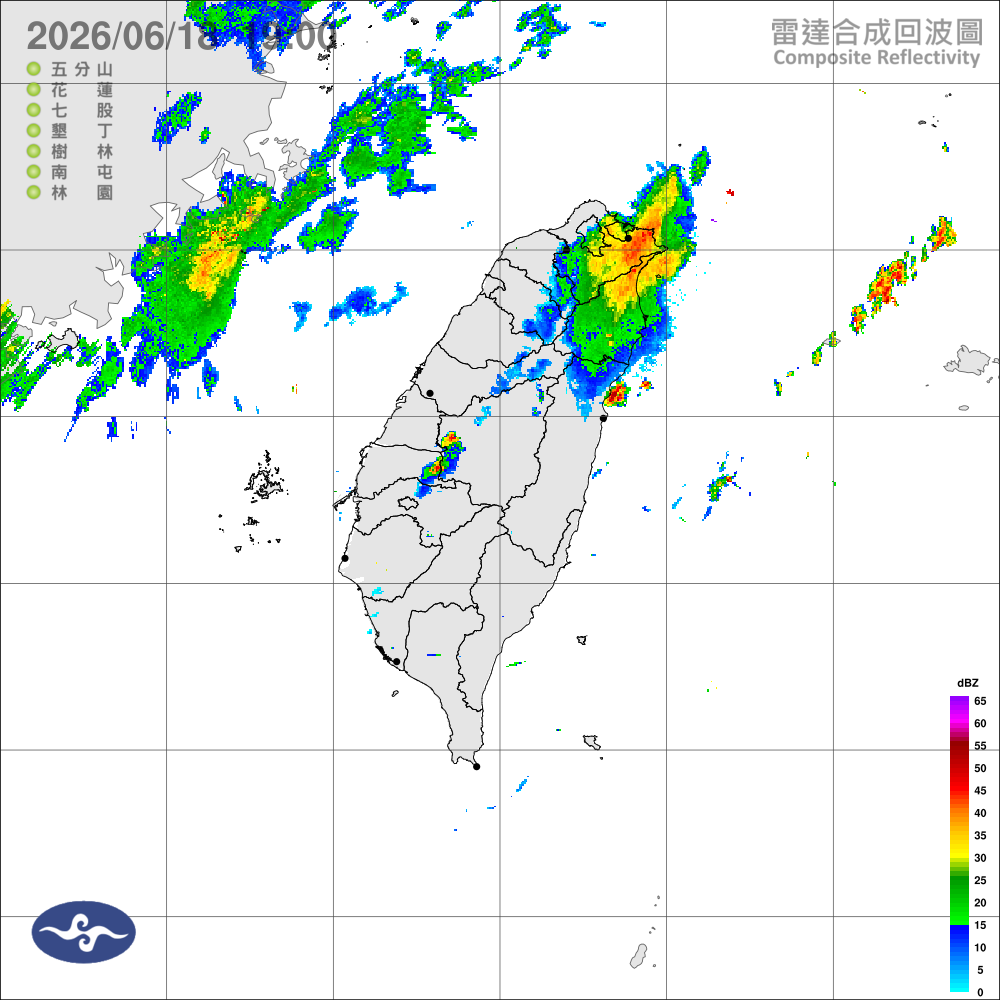
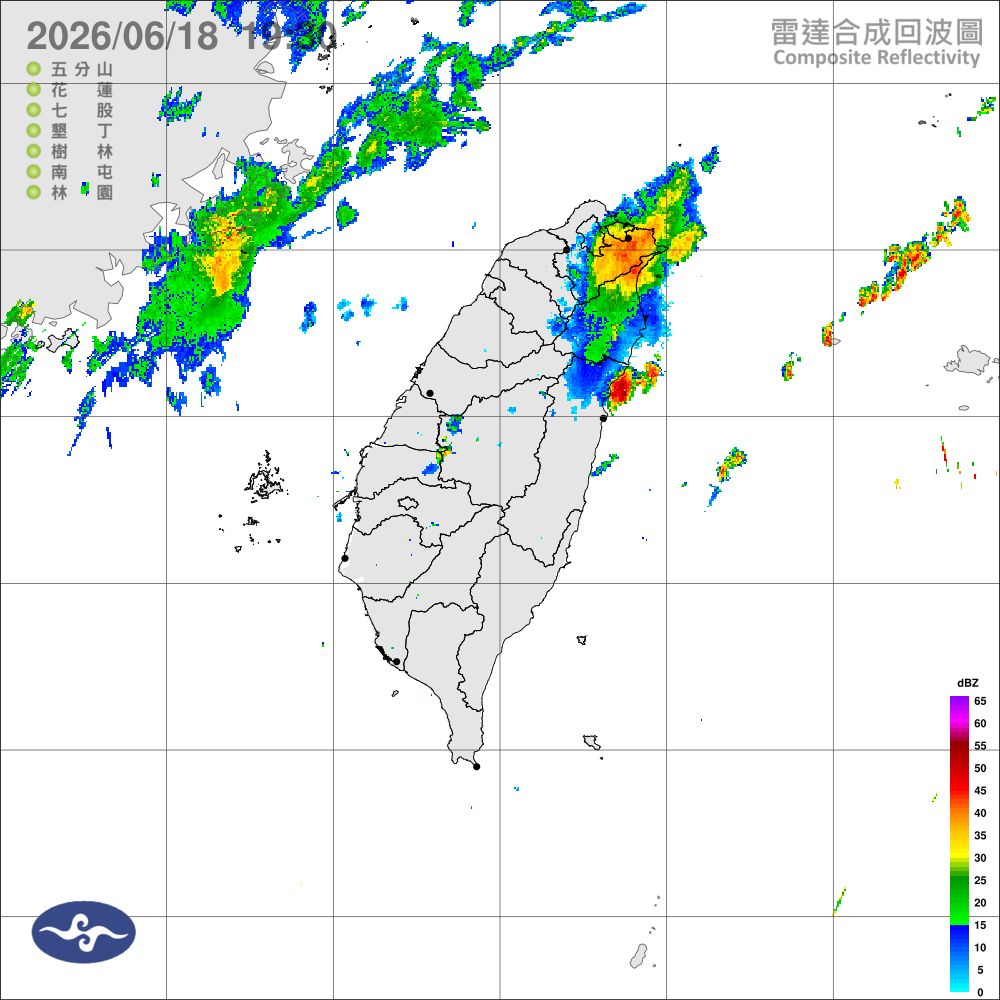
新增新街橋水位圖（剖面圖）顯示於即時影像上方
從水情網「詳細資訊」剖面圖的資料來源
D3_reservior_mountain.aspx?no=20160519140201 預抓海拔高、左右岸高度、
黃／紅警戒水位、封橋警戒線、目前水位與三小時水位／雨量歷線，並以行內 SVG
在頁面重繪官方剖面圖，置於「新街橋即時水位影像」區塊上方；資料無法取得時
顯示退回官方頁的提示。

Claude-Session: https://claude.ai/code/session_019LQ5pHmPtvQm9zTQKyZeYt

diff --git a/docs/app.js b/docs/app.js
@@ -23,6 +23,9 @@ const fields = {
   waterEmbedLevel: document.querySelector("#waterEmbedLevel"),
   waterBankHeight: document.querySelector("#waterBankHeight"),
   waterObservedAt: document.querySelector("#waterObservedAt"),
+  waterChart: document.querySelector("#waterChart"),
+  waterChartTime: document.querySelector("#waterChartTime"),
+  waterChartFallback: document.querySelector("#waterChartFallback"),
   radarTime: document.querySelector("#radarTime"),
   radarImage: document.querySelector("#radarImage"),
   radarCaption: document.querySelector("#radarCaption"),
@@ -105,6 +108,86 @@ function renderWater(water, updatedAt, bust) {
   showWaterShot(water, bust);
 }
 
+// Build the official-style 水位剖面圖 (cross-section) as an inline SVG from the
+// prefetched detail data: sloped gray banks framing a channel, the blue water
+// filled to the current level, and the 黃/紅 warning lines drawn across it.
+function waterChartSvg(c) {
+  const W = 760;
+  const plotTop = 64;
+  const plotBottom = 392;
+  const fmt = (v) => `${Number(v)}m`;
+
+  // Channel geometry (outer bank → inner top → channel floor), mirrored.
+  const xLO = 40, xLTI = 250, xLBI = 300;
+  const xRBI = 460, xRTI = 510, xRO = 720;
+
+  const left = Number(c.leftBankM) || 0;
+  const right = Number(c.rightBankM) || 0;
+  const level = Number(c.currentLevelM) || 0;
+  const red = Number(c.redAlertM);
+  const yellow = Number(c.yellowAlertM);
+  const scaleMax = Math.max(left, right, red || 0, yellow || 0, level) || 1;
+
+  const yOf = (v) => plotBottom - (Math.min(v, scaleMax) / scaleMax) * (plotBottom - plotTop);
+  const yLeftTop = yOf(left);
+  const yRightTop = yOf(right);
+
+  // x on the (sloped) inner channel wall at a given y.
+  const leftWallX = (y) => xLBI + (xLTI - xLBI) * ((plotBottom - y) / (plotBottom - yLeftTop || 1));
+  const rightWallX = (y) => xRBI + (xRTI - xRBI) * ((plotBottom - y) / (plotBottom - yRightTop || 1));
+
+  const leftBank = `${xLO},${plotBottom} ${xLO},${yLeftTop} ${xLTI},${yLeftTop} ${xLBI},${plotBottom}`;
+  const rightBank = `${xRO},${plotBottom} ${xRO},${yRightTop} ${xRTI},${yRightTop} ${xRBI},${plotBottom}`;
+
+  const yLevel = yOf(level);
+  const water = `${xLBI},${plotBottom} ${leftWallX(yLevel).toFixed(1)},${yLevel.toFixed(1)} ` +
+    `${rightWallX(yLevel).toFixed(1)},${yLevel.toFixed(1)} ${xRBI},${plotBottom}`;
+
+  // Warning lines run full width at their height; labels sit at the right end.
+  const warnLine = (v, cls) => {
+    if (!Number.isFinite(v)) return "";
+    const y = yOf(v);
+    return `<line class="${cls}" x1="${xLO}" y1="${y.toFixed(1)}" x2="${xRO}" y2="${y.toFixed(1)}" />` +
+      `<text class="${cls}-label" x="${xRO}" y="${(y - 8).toFixed(1)}" text-anchor="end">${fmt(v)}</text>`;
+  };
+
+  return `
+    <svg viewBox="0 0 ${W} ${plotBottom + 44}" role="img" preserveAspectRatio="xMidYMid meet">
+      <text class="wc-abs" x="${W / 2}" y="34" text-anchor="middle">水位海拔高 ${
+        c.absoluteHeightM != null ? `${c.absoluteHeightM} m` : "--"
+      }</text>
+      <polygon class="wc-bank" points="${leftBank}" />
+      <polygon class="wc-bank" points="${rightBank}" />
+      <polygon class="wc-water" points="${water}" />
+      <line class="wc-base" x1="${xLBI}" y1="${plotBottom}" x2="${xRBI}" y2="${plotBottom}" />
+      ${warnLine(red, "wc-red")}
+      ${warnLine(yellow, "wc-yellow")}
+      <text class="wc-bank-label" x="${xLO + 8}" y="${(yLeftTop + 22).toFixed(1)}" text-anchor="start">${fmt(left)}</text>
+      <text class="wc-bank-label" x="${xRO - 8}" y="${(yRightTop + 22).toFixed(1)}" text-anchor="end">${fmt(right)}</text>
+      <text class="wc-zero" x="${xLBI - 8}" y="${plotBottom - 8}" text-anchor="end">0m</text>
+      <text class="wc-level" x="${(xLBI + xRBI) / 2}" y="${(plotTop + plotBottom) / 2 + 14}" text-anchor="middle">${fmt(level)}</text>
+    </svg>`;
+}
+
+function renderWaterChart(chart, updatedAt) {
+  const hasChart = chart && chart.found !== false && chart.currentLevelM != null;
+  if (!hasChart) {
+    fields.waterChart.innerHTML = "";
+    fields.waterChart.hidden = true;
+    fields.waterChartFallback.hidden = false;
+    fields.waterChartTime.textContent = "";
+    return;
+  }
+  fields.waterChartFallback.hidden = true;
+  fields.waterChart.hidden = false;
+  fields.waterChart.innerHTML = waterChartSvg(chart);
+  fields.waterChartTime.textContent = chart.timeRange
+    ? `資料時間 ${chart.timeRange}`
+    : updatedAt
+      ? `更新 ${updatedAt}`
+      : "";
+}
+
 function renderRadar(radar, bust) {
   if (!radar) return;
   const src = radar.imageFile ? `./data/${radar.imageFile}` : radar.imageUrl;
@@ -124,6 +207,7 @@ async function loadData() {
     const data = await response.json();
     const bust = data.generatedAt || Date.now();
     renderWeather(data.weather);
+    renderWaterChart(data.water && data.water.chart, data.generatedAtTaipei || data.generatedAt);
     renderWater(data.water, data.generatedAtTaipei || data.generatedAt, bust);
     renderRadar(data.radar, bust);
     statusEl.textContent = `資料更新時間：${data.generatedAtTaipei || data.generatedAt || "--"}`;

diff --git a/docs/styles.css b/docs/styles.css
@@ -325,6 +325,79 @@ h2 {
   font-weight: 700;
 }
 
+.water-chart-frame {
+  margin: 0;
+  border: 1px solid var(--line);
+  border-radius: 8px;
+  background: #fff;
+  overflow: hidden;
+}
+
+.water-chart {
+  display: block;
+  line-height: 0;
+}
+
+.water-chart svg {
+  display: block;
+  width: 100%;
+  height: auto;
+}
+
+.wc-abs {
+  fill: var(--ink);
+  font-size: 22px;
+  font-weight: 700;
+}
+
+.wc-bank {
+  fill: #9aa3a0;
+}
+
+.wc-water {
+  fill: #5b9bd5;
+}
+
+.wc-base {
+  stroke: #6b7873;
+  stroke-width: 2;
+}
+
+.wc-red {
+  stroke: #e23b2e;
+  stroke-width: 3;
+}
+
+.wc-yellow {
+  stroke: #f0972a;
+  stroke-width: 3;
+}
+
+.wc-red-label {
+  fill: #e23b2e;
+  font-size: 20px;
+  font-weight: 700;
+}
+
+.wc-yellow-label {
+  fill: #f0972a;
+  font-size: 20px;
+  font-weight: 700;
+}
+
+.wc-bank-label,
+.wc-zero {
+  fill: #fff;
+  font-size: 18px;
+  font-weight: 700;
+}
+
+.wc-level {
+  fill: var(--blue);
+  font-size: 56px;
+  font-weight: 800;
+}
+
 @media (max-width: 780px) {
   .shell {
     width: min(100% - 20px, 1180px);

diff --git a/tests/server.test.js b/tests/server.test.js
@@ -5,6 +5,7 @@ import {
   parseWaterRows,
   parseRiverStations,
   parseWStationDetail,
+  parseWaterChart,
   parseRainProbability,
 } from "../scripts/sources.mjs";
 
@@ -83,6 +84,43 @@ test("parseWStationDetail pulls level, bank height, time and live image from a P
     imageUrl: "https://video3.wrbtycg.tw/node/image/abc?live=1",
     lat: "24.9628",
     lon: "121.23013",
+  });
+});
+
+test("parseWaterChart reads banks, alert levels and series from the D3 detail page", () => {
+  // Mirrors the inline JS that D3_reservior_mountain.aspx embeds for a station.
+  const html = `
+    <div style="border-radius: 5px 5px 0 0;">新街橋</div>
+    <div>(水位海拔高 124.65 m)</div>
+    config1.noAlertLevel = "1.55";
+    config1.yellowAlerLevel = "2.38";
+    config1.redAlertLevel = "2.88";
+    config1.maxValue = "3.88";
+    config1.r_stopgo_m = "0";
+    config1.RIGHTHEIGHT = "3.88";
+    config1.LEFTHEIGHT = "4.25";
+    //config1.station = "新街橋";
+    var gauge2 = loadLiquidFillGauge("fillgauge2", "0.76", config1);
+    var aHighChartsTime = "2026-06-18 16:30:00 ~ 2026-06-18 19:59:59";
+    var yData = [0.75,0.76,0.76];
+    var ABS_HEIGHTData = [124.643,124.653,124.653];
+    var yRainData = [0,0,0];
+  `;
+
+  assert.deepEqual(parseWaterChart(html), {
+    station: "新街橋",
+    absoluteHeightM: 124.65,
+    currentLevelM: 0.76,
+    leftBankM: 4.25,
+    rightBankM: 3.88,
+    redAlertM: 2.88,
+    yellowAlertM: 2.38,
+    noAlertM: 1.55,
+    stopgoM: 0,
+    timeRange: "2026-06-18 16:30:00 ~ 2026-06-18 19:59:59",
+    waterSeries: [0.75, 0.76, 0.76],
+    absHeightSeries: [124.643, 124.653, 124.653],
+    rainSeries: [0, 0, 0],
   });
 });
 

diff --git a/docs/index.html b/docs/index.html
@@ -52,6 +52,21 @@
         </article>
       </section>
 
+      <section class="radar-section water-chart-section">
+        <div class="section-head">
+          <h2>新街橋水位圖</h2>
+          <span id="waterChartTime">--</span>
+        </div>
+        <figure class="water-chart-frame">
+          <div id="waterChart" class="water-chart" aria-label="新街橋水位剖面圖"></div>
+          <figcaption id="waterChartFallback" class="embed-note" hidden>
+            水位圖資料暫時無法取得，可
+            <a href="https://winfo.tycg.gov.tw/tysafep/Webpage/water.aspx"
+               target="_blank" rel="noopener noreferrer">在桃園市水情資訊網查看 ↗</a>。
+          </figcaption>
+        </figure>
+      </section>
+
       <section class="radar-section water-embed">
         <div class="section-head">
           <h2>新街橋即時水位影像</h2>

diff --git a/README.md b/README.md
@@ -16,6 +16,11 @@
   讀取新街橋即時水位、河岸高度、觀測時間與「官方測站即時影像」。該影像是純 `<img>`，
   不受地圖頁 `X-Frame-Options` 限制，因此直接內嵌在頁面顯示，並可點擊直接開啟正確的測站影像；
   影像離線時自動退回官方地圖連結。即時水位另以 `Default.aspx` 取得溪流名稱與備援水位。
+- **新街橋水位圖（剖面圖）**：水情網「詳細資訊」彈窗的剖面圖由
+  `TYSAMOBILE/DataReview/D3_reservior_mountain.aspx?no=<測站編號>` 提供（新街橋編號
+  `20160519140201`，取自 `water.aspx` 本局列管水位站清單的「詳細資訊」連結）。該頁把海拔高、
+  左右岸高度、黃／紅警戒水位、封橋警戒線、目前水位與三小時水位／雨量歷線都以行內 JS 變數內嵌，
+  預抓時直接解析。頁面以行內 SVG 重繪此剖面圖，顯示在即時水位影像上方。
 - **中央氣象署雷達回波**：無地形、臺灣鄰近區域的最新靜止圖
 
 ## 架構
@@ -26,9 +31,11 @@ GitHub Actions（每 2 小時／可手動）
        ├─ 氣象署 .js → 今日最高/最低溫              → docs/data/summary.json
        ├─ 氣象署 3hr 模組 → 今日降雨機率(PoP)        → docs/data/summary.json
        ├─ 雷達 .js + 下載圖                          → docs/data/radar.png
-       └─ 桃園 POI/Default.aspx → 新街橋水位+即時影像 → docs/data/summary.json
+       └─ 桃園 POI/Default.aspx → 新街橋水位+即時影像          → docs/data/summary.json
+       └─ 桃園 D3_reservior_mountain.aspx → 新街橋剖面圖資料   → docs/data/summary.json
   └─ commit docs/data/* 回 repo
 GitHub Pages（main /docs）→ 顯示靜態頁面（讀 ./data/summary.json）
+  └─ 水位圖以行內 SVG 重繪剖面圖（海拔高／左右岸／黃紅警戒／目前水位）
   └─ 測站即時影像直接內嵌（純 <img>），離線時退回官方地圖連結
 ```
 